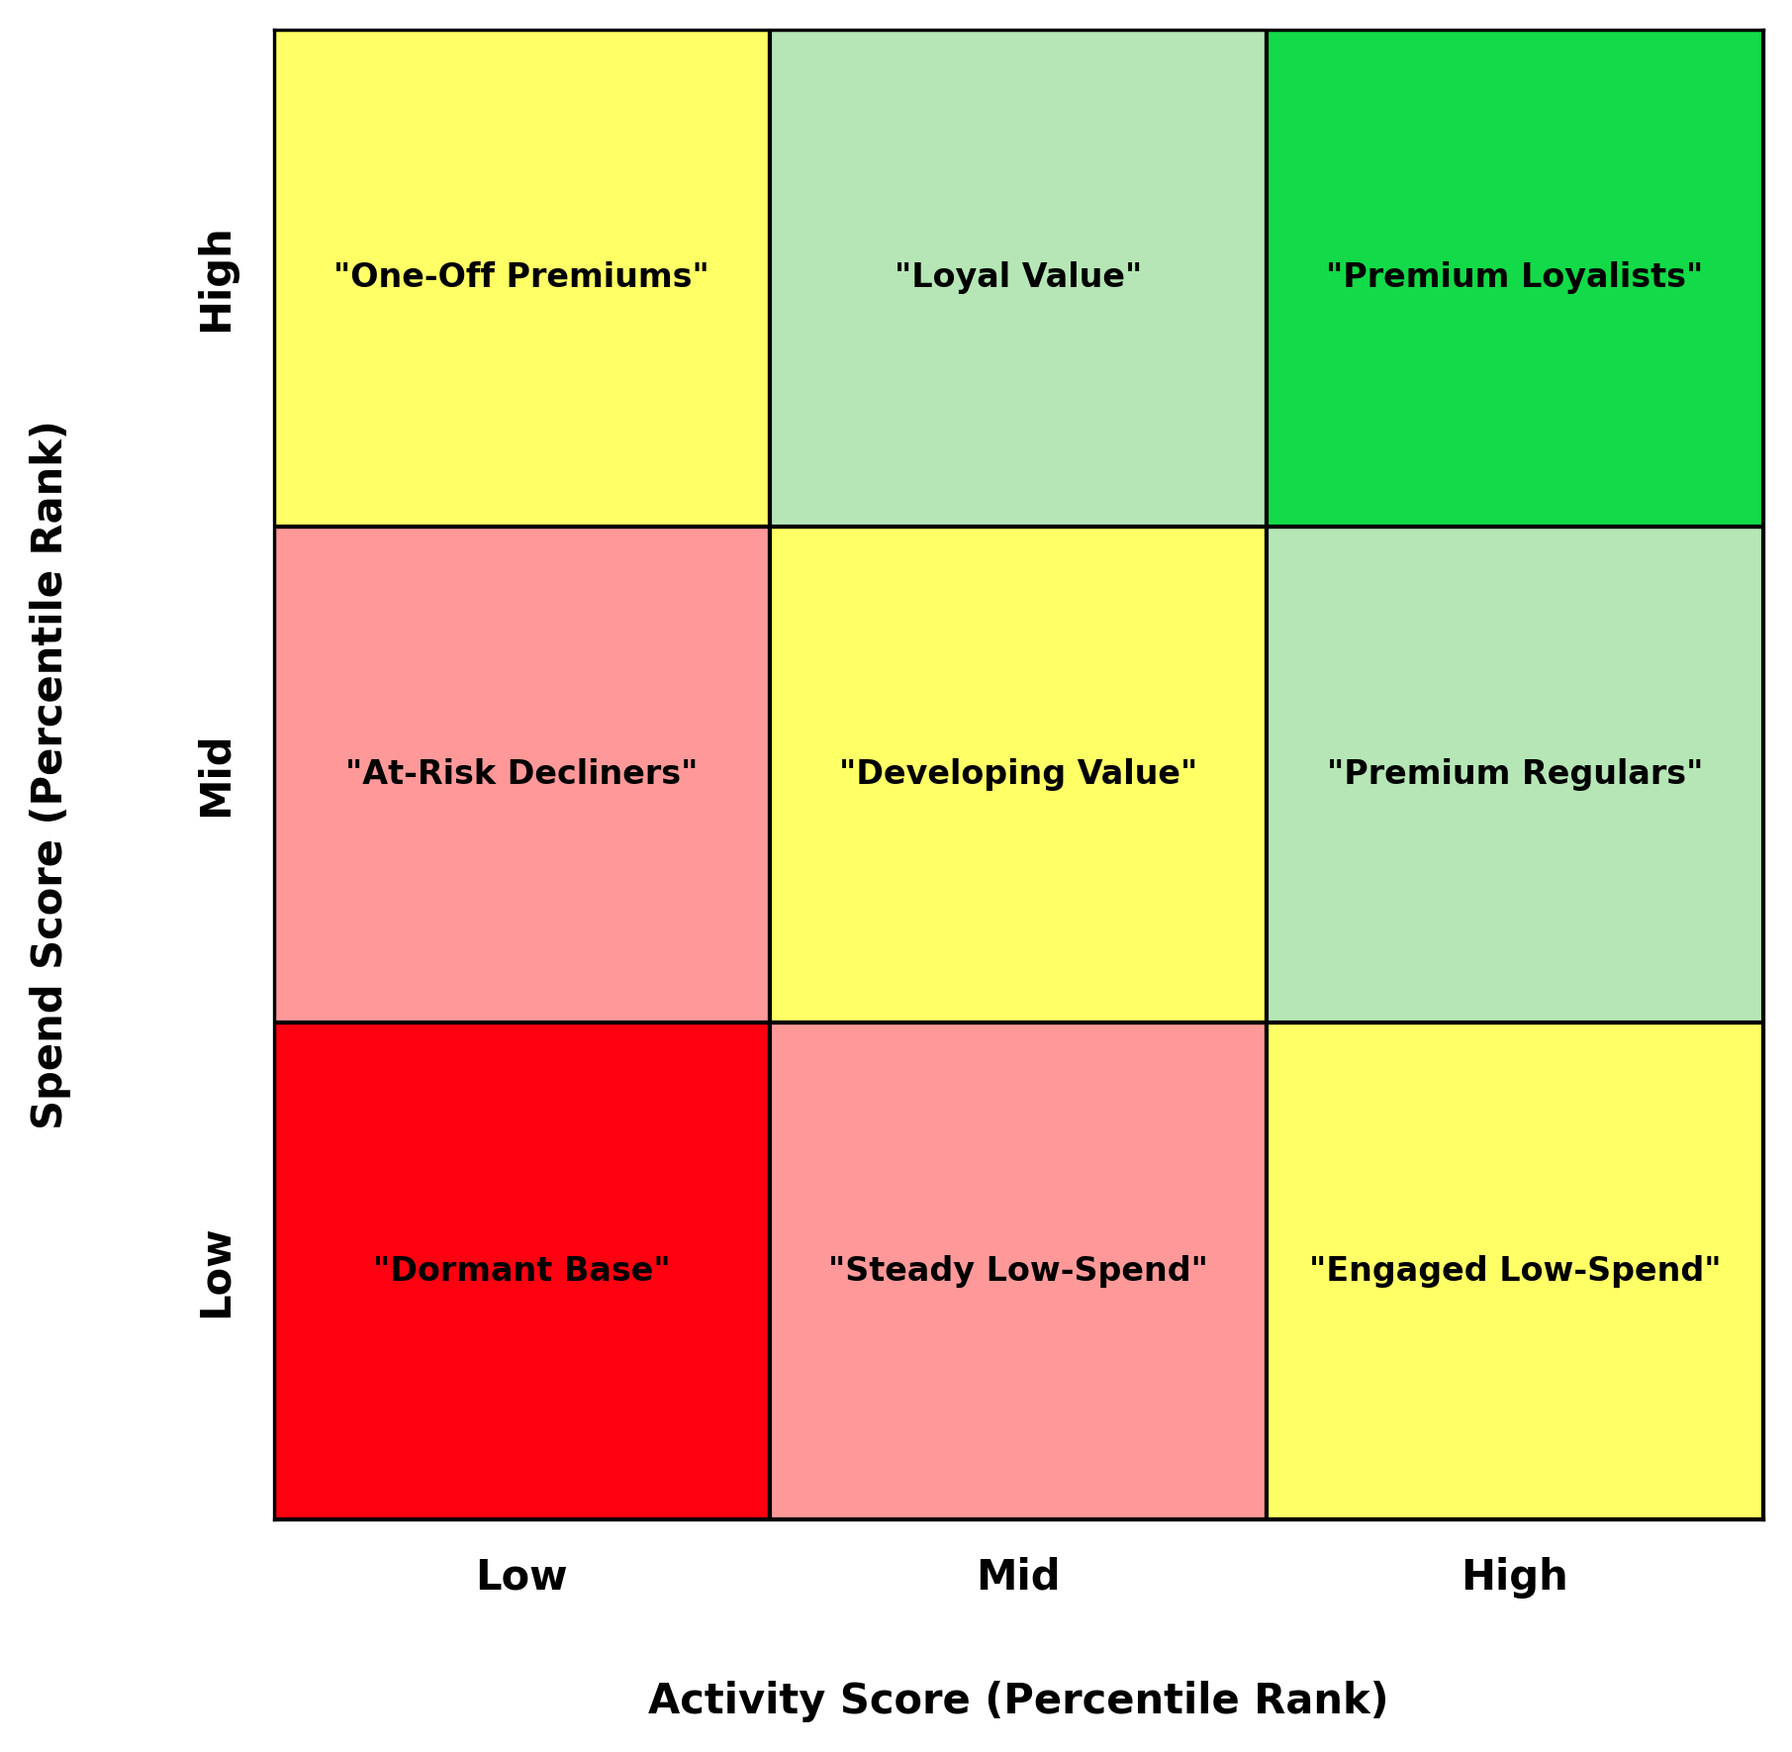
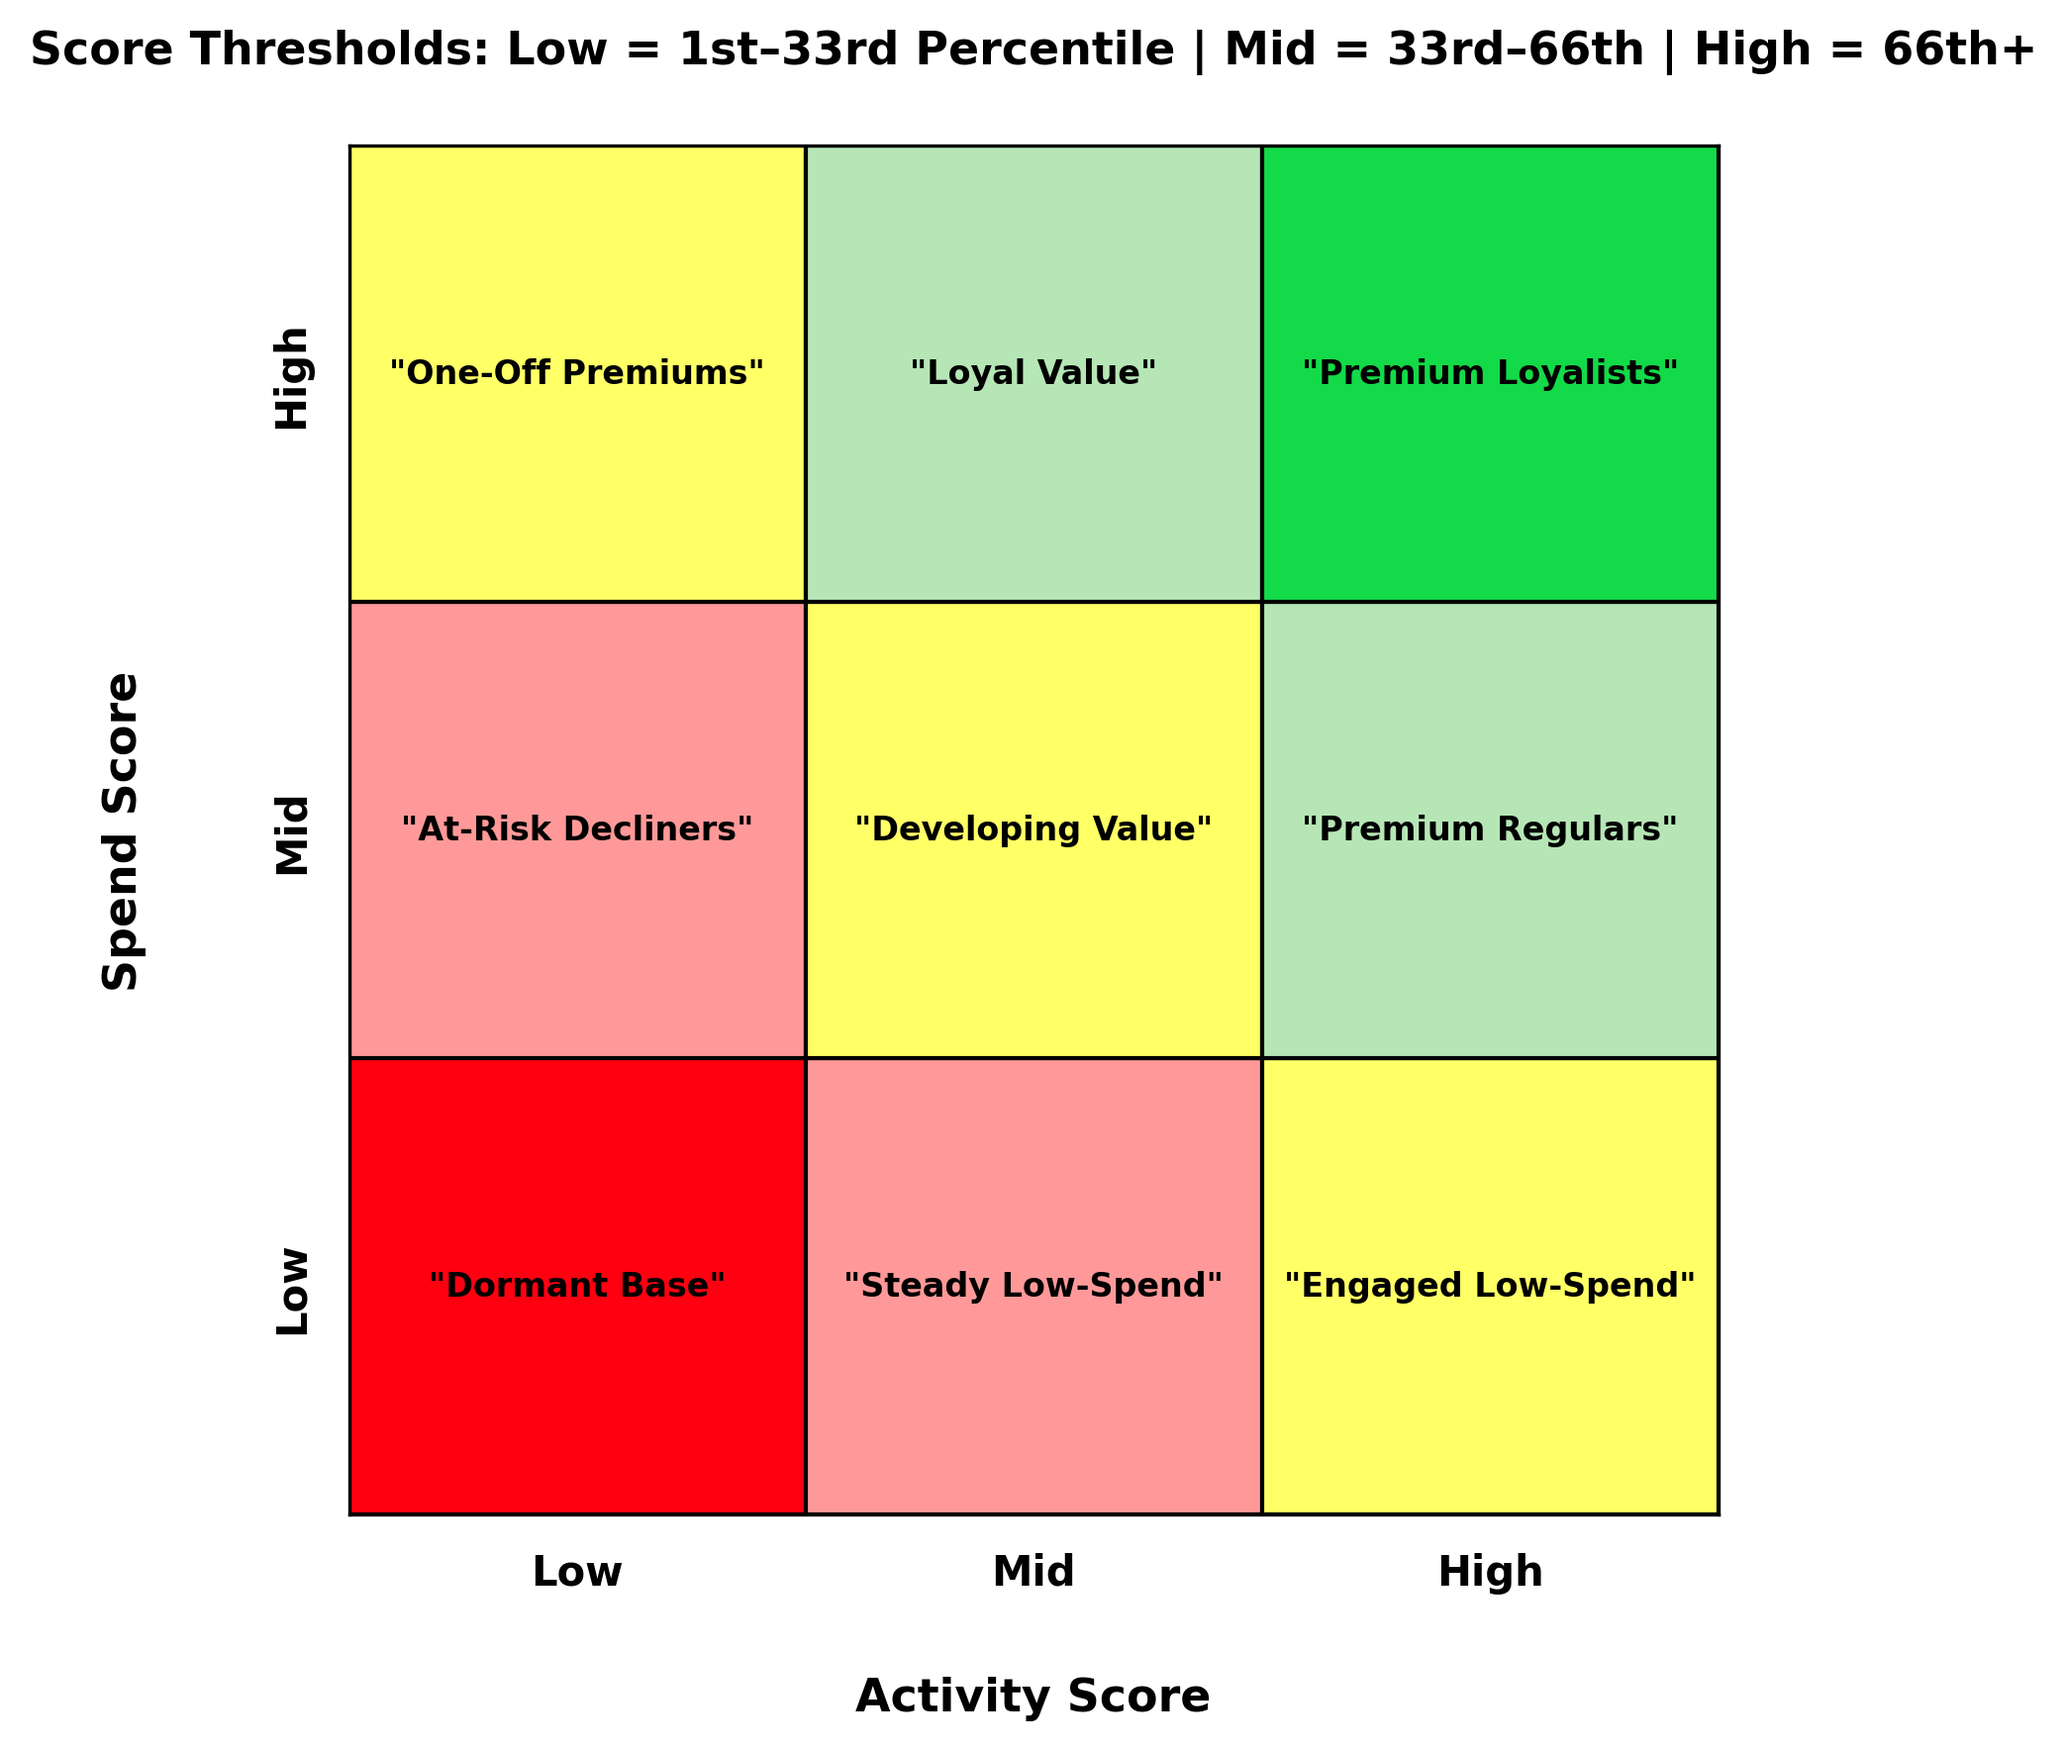
Update

diff --git a/helpforheroes/test.py b/helpforheroes/test.py
@@ -67,9 +67,19 @@ ax.tick_params(axis="y", pad=9)
 
 plt.gca().invert_yaxis()
 
-ax.set_xlabel("Activity Score (Percentile Rank)", labelpad=20, fontsize=10, fontweight="bold")
-ax.set_ylabel("Spend Score (Percentile Rank)", labelpad=30, fontsize=10, fontweight="bold")
+# Axis labels
+ax.set_xlabel("Activity Score", labelpad=20, fontsize=11, fontweight="bold")
+ax.set_ylabel("Spend Score", labelpad=30, fontsize=11, fontweight="bold")
 
+# ⭐ ADD TITLE ⭐
+plt.title(
+    "Score Thresholds: Low = 1st–33rd Percentile | Mid = 33rd–66th | High = 66th+",
+    fontsize=11,
+    fontweight="bold",
+    pad=20
+)
+
+# Frame
 ax.set_xlim(0, 3)
 ax.set_ylim(0, 3)
 ax.set_aspect("equal")

diff --git a/helpforheroes/helpforheroes.py b/helpforheroes/helpforheroes.py
@@ -387,7 +387,7 @@ st.markdown(
 # ----------------------
 # SEGMENTATION ANALYSIS
 # ----------------------
-st.markdown("<h2>Segmentation Matrix</h2>", unsafe_allow_html=True)
+st.markdown("<h2>Customer Segmentation Matrix</h2>", unsafe_allow_html=True)
 
 # show matrix
 st.image("helpforheroes/matrix_plot.png", use_column_width=True)
